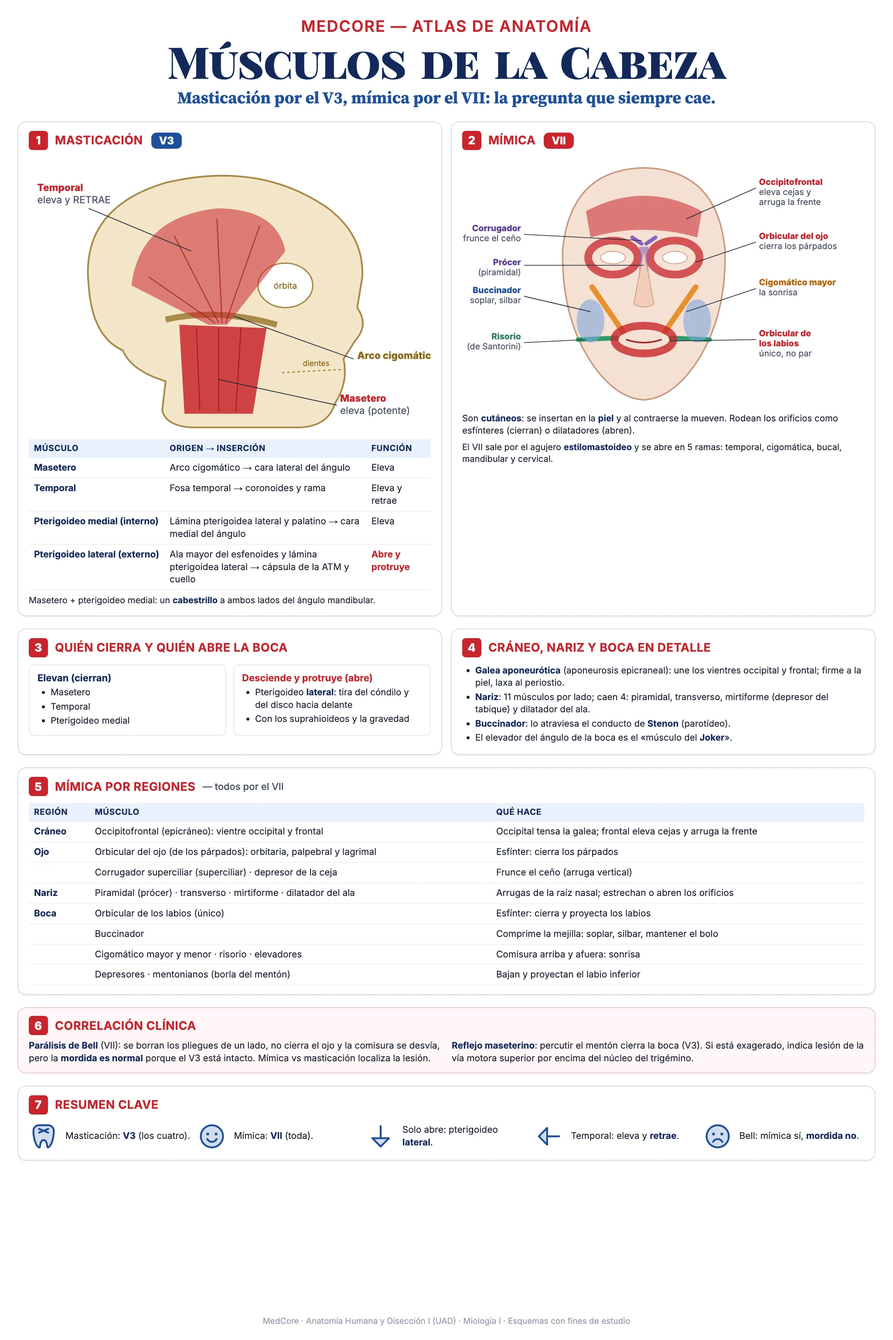
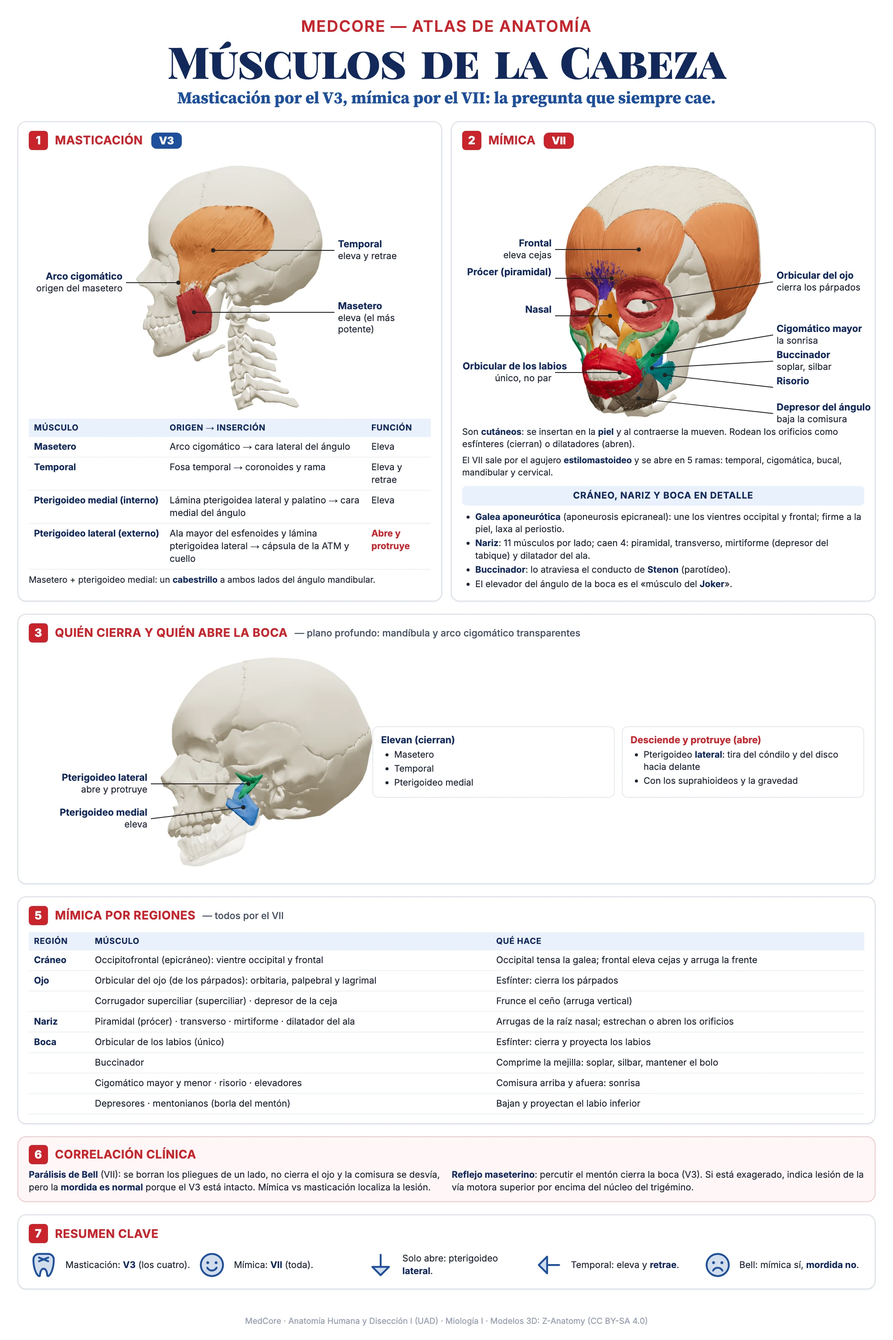
feat(atlas): músculos de cabeza y de cuello con renders de Z-Anatomy
Los esquemas dibujados se sustituyen por renders del modelo Z-Anatomy
(CC BY-SA 4.0) exportado con Blender: masticación (temporal y masetero),
plano profundo de los pterigoideos, mímica, supra e infrahioideos,
triángulo suboccipital y escalenos, con rótulos por proyección.
render-atlas.html: los músculos con nombre de hueso ya no se pintan como
hueso, dientes en color hueso, y opciones dbl/poff para mallas con caras
invertidas o que se cruzan con el hueso.

diff --git a/docs/atlas-posters/membrana/src/anat-musculos-cuello.html b/docs/atlas-posters/membrana/src/anat-musculos-cuello.html
@@ -16,46 +16,8 @@ td.v { font-weight: 800; white-space: nowrap; }
 
 <div class="row">
   <section class="panel" style="flex:1.05">
-    <div class="ph"><span class="n">1</span>Supra e infrahioideos <small>— vista anterior · esquema</small></div>
-    <svg viewBox="0 0 480 400" style="width:100%;display:block">
-      <!-- mandíbula -->
-      <path d="M90 30 Q240 150 390 30 L376 22 Q240 128 104 22 Z" fill="#f3e6c8" stroke="#a88a4a" stroke-width="2"/>
-      <!-- hioides -->
-      <path d="M170 168 Q240 186 310 168 L314 180 Q240 198 166 180 Z" fill="#f3e6c8" stroke="#a88a4a" stroke-width="2"/>
-      <!-- tiroides -->
-      <path d="M200 226 L280 226 L272 270 Q240 290 208 270 Z" fill="#cfe0f6" stroke="#3e7fbd" stroke-width="2"/>
-      <!-- esternón y clavículas -->
-      <path d="M210 360 L270 360 L276 396 L204 396 Z" fill="#f3e6c8" stroke="#a88a4a" stroke-width="2"/>
-      <path d="M210 364 Q150 350 80 362 M270 364 Q330 350 400 362" fill="none" stroke="#a88a4a" stroke-width="9" stroke-linecap="round"/>
-      <!-- suprahioideos -->
-      <path d="M232 92 L236 170" stroke="#e8912e" stroke-width="10" stroke-linecap="round"/>
-      <path d="M150 110 Q200 140 236 172" fill="none" stroke="#8a63c0" stroke-width="8" stroke-linecap="round"/>
-      <path d="M182 74 Q206 120 220 170 L260 170 Q276 120 298 74 Q240 110 182 74 Z" fill="#2e9d6b" opacity=".45"/>
-      <path d="M244 92 L240 170" stroke="#e8912e" stroke-width="10" stroke-linecap="round" opacity=".0"/>
-      <path d="M200 70 Q206 120 228 168" fill="none" stroke="#c8242c" stroke-width="7" stroke-linecap="round"/>
-      <path d="M118 56 Q160 150 226 172" fill="none" stroke="#c8242c" stroke-width="7" stroke-linecap="round" stroke-dasharray="1 0"/>
-      <!-- infrahioideos -->
-      <g stroke-linecap="round">
-        <line x1="226" y1="184" x2="226" y2="360" stroke="#1f4f9c" stroke-width="9"/>
-        <line x1="254" y1="184" x2="254" y2="360" stroke="#1f4f9c" stroke-width="9"/>
-        <line x1="212" y1="270" x2="214" y2="360" stroke="#5b8fd6" stroke-width="8"/>
-        <line x1="268" y1="270" x2="266" y2="360" stroke="#5b8fd6" stroke-width="8"/>
-        <line x1="206" y1="184" x2="206" y2="228" stroke="#7fb3e0" stroke-width="7"/>
-        <line x1="274" y1="184" x2="274" y2="228" stroke="#7fb3e0" stroke-width="7"/>
-        <path d="M290 182 Q320 250 400 290" fill="none" stroke="#3e7fbd" stroke-width="7"/>
-      </g>
-      <g font-size="10.5">
-        <text x="240" y="16" font-weight="800" fill="#8a6a1a" text-anchor="middle">Mandíbula</text>
-        <text x="40" y="186" font-weight="800" fill="#8a6a1a">HIOIDES</text><line x1="92" y1="182" x2="164" y2="176" stroke="#8a6a1a"/>
-        <text x="300" y="250" font-weight="800" fill="#1f4f9c">Cartílago tiroides</text>
-        <text x="240" y="392" font-weight="800" fill="#8a6a1a" text-anchor="middle" font-size="9.5">esternón</text>
-        <text x="12" y="80" font-weight="800" fill="#2e7d5b">SUPRAHIOIDEOS</text><text x="12" y="94" fill="#4b5567">suben el hioides</text>
-        <text x="12" y="112" fill="#c8242c" font-weight="700">digástrico</text><text x="12" y="126" fill="#8a63c0" font-weight="700">estilohioideo</text><text x="12" y="140" fill="#2e7d5b" font-weight="700">milohioideo</text><text x="12" y="154" fill="#b8650f" font-weight="700">geniohioideo</text>
-        <text x="12" y="290" font-weight="800" fill="#1f4f9c">INFRAHIOIDEOS</text><text x="12" y="304" fill="#4b5567">bajan hioides y laringe</text>
-        <text x="12" y="322" fill="#1f4f9c" font-weight="700">esternohioideo</text><text x="12" y="336" fill="#5b8fd6" font-weight="700">esternotiroideo</text><text x="12" y="350" fill="#3e7fbd" font-weight="700">tirohioideo</text>
-        <text x="340" y="312" fill="#3e7fbd" font-weight="700">omohioideo</text><text x="340" y="325" fill="#4b5567">hacia la escápula</text>
-      </g>
-    </svg>
+    <div class="ph"><span class="n">1</span>Supra e infrahioideos <small>— vista anterolateral · modelo 3D</small></div>
+    <script type="auto3d">{"img": "ana3d/cue-hioides.png", "height": 350, "cw": 500, "gap": 42, "labels": {"dig": ["Digástrico", "vientre anterior"], "myl": ["Milohioideo", "piso de la boca"], "hy": ["Hioides", ""], "sh": ["Esternohioideo", ""], "st": ["Esternotiroideo", ""], "dgp": ["Digástrico", "vientre post."], "sty": ["Estilohioideo", ""], "tc": ["Cartílago tiroides", ""], "th": ["Tirohioideo", ""], "om": ["Omohioideo", "a la escápula"]}, "side": {"dig": "left", "myl": "left", "hy": "left", "sh": "left", "st": "left", "dgp": "right", "sty": "right", "tc": "right", "th": "right", "om": "right"}, "L": 128}</script>
   </section>
   <section class="panel" style="flex:.95">
     <div class="ph"><span class="n">2</span>Suprahioideos: inervación mixta ★</div>
@@ -80,35 +42,8 @@ td.v { font-weight: 800; white-space: nowrap; }
 
 <div class="row">
   <section class="panel" style="flex:1">
-    <div class="ph"><span class="n">3</span>Triángulo suboccipital <small>— vista posterior · esquema</small></div>
-    <svg viewBox="0 0 470 250" style="width:100%;display:block">
-      <!-- occipital -->
-      <path d="M40 20 Q235 -10 430 20 L420 60 Q235 40 50 60 Z" fill="#f3e6c8" stroke="#a88a4a" stroke-width="2"/>
-      <!-- atlas C1 -->
-      <path d="M70 120 Q235 100 400 120 L396 140 Q235 122 74 140 Z" fill="#f3e6c8" stroke="#a88a4a" stroke-width="2"/>
-      <circle cx="96" cy="128" r="16" fill="#f3e6c8" stroke="#a88a4a" stroke-width="2"/>
-      <!-- axis C2 espinoso -->
-      <path d="M200 190 L270 190 L260 236 L210 236 Z" fill="#f3e6c8" stroke="#a88a4a" stroke-width="2"/>
-      <!-- membrana / arteria -->
-      <path d="M100 124 Q170 104 236 112" fill="none" stroke="#c8242c" stroke-width="6"/>
-      <!-- músculos -->
-      <path d="M226 192 L190 62 L160 60 L212 194 Z" fill="#c8242c" opacity=".75"/>
-      <path d="M232 112 L240 60 L222 60 L222 112 Z" fill="#e8912e" opacity=".75"/>
-      <path d="M96 116 L120 58 L140 58 L108 130 Z" fill="#2e9d6b" opacity=".75"/>
-      <path d="M100 140 L212 206 L218 194 L106 126 Z" fill="#1f4f9c" opacity=".75"/>
-      <!-- triángulo resaltado -->
-      <path d="M118 110 L176 92 L202 176 Z" fill="none" stroke="#13295b" stroke-width="2" stroke-dasharray="5 4"/>
-      <g font-size="10.5">
-        <text x="235" y="16" font-weight="800" fill="#8a6a1a" text-anchor="middle">Occipital (línea nucal inferior)</text>
-        <text x="420" y="134" font-weight="800" fill="#8a6a1a" text-anchor="end">Atlas C1</text>
-        <text x="282" y="222" font-weight="800" fill="#8a6a1a">Axis C2</text>
-        <line x1="196" y1="140" x2="300" y2="150" stroke="#1d2433" stroke-width=".8"/><text x="304" y="150" font-weight="800" fill="#c8242c">Recto post. MAYOR</text><text x="304" y="163" fill="#4b5567">límite medial</text>
-        <line x1="232" y1="80" x2="300" y2="84" stroke="#1d2433" stroke-width=".8"/><text x="304" y="82" font-weight="800" fill="#b8650f">Recto post. menor</text>
-        <line x1="116" y1="80" x2="20" y2="80" stroke="#1d2433" stroke-width=".8"/><text x="4" y="74" font-weight="800" fill="#2e7d5b">Oblicuo superior</text><text x="4" y="94" fill="#4b5567">límite lateral</text>
-        <line x1="150" y1="170" x2="20" y2="190" stroke="#1d2433" stroke-width=".8"/><text x="4" y="200" font-weight="800" fill="#1f4f9c">Oblicuo inferior</text><text x="4" y="213" fill="#4b5567">límite inferior</text>
-        <text x="160" y="124" font-size="9.5" font-weight="800" fill="#c8242c">a. vertebral</text>
-      </g>
-    </svg>
+    <div class="ph"><span class="n">3</span>Triángulo suboccipital <small>— vista posterior · modelo 3D</small></div>
+    <script type="auto3d">{"img": "ana3d/cue-subocc.png", "height": 300, "cw": 470, "gap": 40, "labels": {"rmi": ["Recto post. menor", ""], "rma": ["Recto post. mayor", "límite medial"], "os": ["Oblicuo superior", "límite lateral"], "oi": ["Oblicuo inferior", "límite inferior"], "oc": ["Occipital", ""], "c1": ["Atlas (C1)", ""], "c2": ["Axis (C2)", ""]}, "side": {"rmi": "left", "rma": "left", "os": "left", "oi": "left", "oc": "right", "c1": "right", "c2": "right"}}</script>
     <table>
       <tr><td class="k">Piso</td><td>Membrana atlantooccipital posterior + arco posterior del atlas</td></tr>
       <tr><td class="k">Techo</td><td>Complejo mayor (semiespinoso de la cabeza)</td></tr>
@@ -117,27 +52,8 @@ td.v { font-weight: 800; white-space: nowrap; }
     <p style="font-size:10px;margin:4px 0 0">El <b>nervio suboccipital</b> (rama posterior de C1) inerva los cuatro suboccipitales.</p>
   </section>
   <section class="panel" style="flex:1">
-    <div class="ph"><span class="n">4</span>Escalenos <small>— vista lateral · esquema</small></div>
-    <svg viewBox="0 0 470 250" style="width:100%;display:block">
-      <g fill="#f3e6c8" stroke="#a88a4a" stroke-width="1.6">
-        <rect x="60" y="14" width="44" height="22" rx="5"/><rect x="60" y="40" width="44" height="22" rx="5"/><rect x="60" y="66" width="44" height="22" rx="5"/><rect x="60" y="92" width="44" height="22" rx="5"/><rect x="60" y="118" width="44" height="22" rx="5"/><rect x="60" y="144" width="44" height="22" rx="5"/><rect x="60" y="170" width="44" height="22" rx="5"/>
-      </g>
-      <g font-size="9" fill="#8a6a1a" font-weight="700" text-anchor="middle"><text x="82" y="29">C1</text><text x="82" y="133">C5</text><text x="82" y="185">C7</text></g>
-      <path d="M100 206 Q240 190 420 230" fill="none" stroke="#a88a4a" stroke-width="12" stroke-linecap="round"/>
-      <path d="M100 236 Q240 222 430 250" fill="none" stroke="#a88a4a" stroke-width="10" stroke-linecap="round" opacity=".7"/>
-      <path d="M104 60 L300 200 L270 204 L104 112 Z" fill="#c8242c" opacity=".8"/>
-      <path d="M104 26 L230 200 L196 200 L104 76 Z" fill="#e8912e" opacity=".75"/>
-      <path d="M104 116 L184 230 L162 232 L104 150 Z" fill="#8a63c0" opacity=".75"/>
-      <path d="M110 160 Q190 176 248 198 L340 206" fill="none" stroke="#e8c43c" stroke-width="7" stroke-linecap="round"/>
-      <path d="M246 190 Q300 196 360 180" fill="none" stroke="#c8242c" stroke-width="6" stroke-dasharray="1 0" opacity=".0"/>
-      <g font-size="10.5">
-        <text x="310" y="80" font-weight="800" fill="#c8242c">Escaleno anterior</text><text x="310" y="93" fill="#4b5567">C3–C6 → 1.ª costilla</text>
-        <text x="310" y="114" font-weight="800" fill="#b8650f">Escaleno medio</text><text x="310" y="127" fill="#4b5567">C1–C7 → 1.ª costilla</text>
-        <text x="310" y="148" font-weight="800" fill="#5b3b99">Escaleno posterior</text><text x="310" y="161" fill="#4b5567">C4–C6 → 2.ª costilla</text>
-        <text x="344" y="186" font-size="9.5" font-weight="800" fill="#a0821c">plexo braquial</text><text x="344" y="198" font-size="9.5" font-weight="800" fill="#a0821c">+ a. subclavia</text>
-        <text x="120" y="200" font-size="9.5" font-weight="700" fill="#8a6a1a">1.ª costilla</text><text x="120" y="248" font-size="9.5" font-weight="700" fill="#8a6a1a">2.ª costilla</text>
-      </g>
-    </svg>
+    <div class="ph"><span class="n">4</span>Escalenos <small>— vista anterolateral · modelo 3D</small></div>
+    <script type="auto3d">{"img": "ana3d/cue-escalenos.png", "height": 300, "cw": 460, "gap": 36, "labels": {"sa": ["Escaleno anterior", "C3–C6 → 1.ª costilla"], "r1": ["1.ª costilla", ""], "r2": ["2.ª costilla", ""], "sm": ["Escaleno medio", "C1–C7 → 1.ª costilla"], "sp": ["Escaleno posterior", "C4–C6 → 2.ª costilla"], "c1": ["Atlas (C1)", ""]}, "side": {"sa": "left", "r1": "left", "r2": "left", "sm": "right", "sp": "right", "c1": "right"}}</script>
     <p style="font-size:10.2px;margin:0 0 4px"><b>Función</b>: flexión lateral del cuello e inspiradores accesorios (elevan las dos primeras costillas). Inervación: ramas anteriores cervicales (≈ C3–C4).</p>
     <p style="font-size:10.2px;margin:0">Entre el <b>anterior</b> y el <b>medio</b> pasan el plexo braquial y la arteria subclavia.</p>
   </section>
@@ -181,5 +97,5 @@ td.v { font-weight: 800; white-space: nowrap; }
   </div>
 </section>
 
-<p class="foot">MedCore · Anatomía Humana y Disección I (UAD) · Miología I · Esquemas con fines de estudio</p>
+<p class="foot">MedCore · Anatomía Humana y Disección I (UAD) · Miología I · Modelos 3D: Z-Anatomy (CC BY-SA 4.0)</p>
 </div></body></html>

diff --git a/docs/atlas-posters/membrana/src/anat-musculos-cabeza.html b/docs/atlas-posters/membrana/src/anat-musculos-cabeza.html
@@ -3,7 +3,7 @@
 svg text { font-family: 'Inter'; }
 .page { gap: 14px; }
 .two { display: grid; grid-template-columns: 1fr 1fr; gap: 8px; }
-.two .mini { text-align: left; padding: 7px 9px; }
+.two .mini, .mini { text-align: left; padding: 7px 9px; }
 .lst { margin: 0; padding-left: 15px; font-size: 10.3px; }
 .lst li { margin: 0 0 2px; }
 .badge { display: inline-block; font-weight: 800; font-size: 12px; color: #fff; border-radius: 6px; padding: 1px 9px; margin-left: 6px; letter-spacing: 0; }
@@ -19,25 +19,7 @@ svg text { font-family: 'Inter'; }
 <div class="row">
   <section class="panel" style="flex:1">
     <div class="ph"><span class="n">1</span><span>Masticación <span class="badge" style="background:#1f4f9c">V3</span></span></div>
-    <svg viewBox="0 0 470 330" style="width:100%;display:block">
-      <!-- cráneo lateral esquemático -->
-      <path d="M70 150 Q60 60 160 30 Q270 4 350 60 Q392 92 390 140 L384 176 Q398 196 382 214 L368 236 Q374 262 358 288 Q350 314 318 316 L190 316 Q160 314 156 296 L160 262 Q120 250 110 226 Q74 210 70 150 Z" fill="#f3e6c8" stroke="#a88a4a" stroke-width="2"/>
-      <path d="M296 252 L370 248" stroke="#a88a4a" stroke-width="1.4" stroke-dasharray="3 3"/><text x="336" y="244" font-size="9" fill="#8a6a1a" text-anchor="middle">dientes</text>
-      <ellipse cx="300" cy="150" rx="32" ry="26" fill="#fff" stroke="#a88a4a" stroke-width="1.6"/>
-      <path d="M160 190 Q220 176 290 196" fill="none" stroke="#a88a4a" stroke-width="7"/>
-      <!-- temporal -->
-      <path d="M120 150 Q130 70 220 60 Q290 60 300 110 L232 196 L210 196 Z" fill="#c8242c" opacity=".55"/>
-      <g stroke="#a51d24" stroke-width="1.2" fill="none" opacity=".8"><path d="M140 140 L218 194"/><path d="M170 92 L222 194"/><path d="M220 72 L226 194"/><path d="M270 80 L230 194"/></g>
-      <!-- masetero -->
-      <path d="M176 196 L278 200 L262 300 L182 300 Z" fill="#c8242c" opacity=".85"/>
-      <g stroke="#a51d24" stroke-width="1.2"><line x1="196" y1="200" x2="200" y2="296"/><line x1="222" y1="200" x2="222" y2="298"/><line x1="248" y1="200" x2="242" y2="298"/></g>
-      <g font-size="11.5">
-        <line x1="190" y1="110" x2="70" y2="60" stroke="#1d2433" stroke-width=".9"/><text x="10" y="40" font-weight="800" fill="#c8242c">Temporal</text><text x="10" y="54" fill="#4b5567">eleva y RETRAE</text>
-        <line x1="222" y1="260" x2="360" y2="290" stroke="#1d2433" stroke-width=".9"/><text x="364" y="286" font-weight="800" fill="#c8242c">Masetero</text><text x="364" y="300" fill="#4b5567">eleva (potente)</text>
-        <line x1="240" y1="186" x2="380" y2="236" stroke="#1d2433" stroke-width=".9"/><text x="384" y="236" font-weight="800" fill="#8a6a1a">Arco cigomático</text>
-        <text x="300" y="154" font-size="10" fill="#8a6a1a" text-anchor="middle">órbita</text>
-      </g>
-    </svg>
+    <script type="auto3d">{"img": "ana3d/cab-mast.png", "height": 292, "cw": 460, "gap": 40, "labels": {"tem": ["Temporal", "eleva y retrae"], "arc": ["Arco cigomático", "origen del masetero"], "mas": ["Masetero", "eleva (el más potente)"]}, "side": {"tem": "right", "arc": "left", "mas": "right"}}</script>
     <table>
       <tr><th>Músculo</th><th>Origen → inserción</th><th>Función</th></tr>
       <tr><td class="k">Masetero</td><td>Arco cigomático → cara lateral del ángulo</td><td>Eleva</td></tr>
@@ -50,54 +32,10 @@ svg text { font-family: 'Inter'; }
 
   <section class="panel" style="flex:1">
     <div class="ph"><span class="n">2</span><span>Mímica <span class="badge" style="background:#c8242c">VII</span></span></div>
-    <svg viewBox="0 0 520 330" style="width:100%;display:block">
-      <!-- cara frontal -->
-      <path d="M235 14 Q330 16 340 120 Q342 210 300 270 Q270 312 235 314 Q200 312 170 270 Q128 210 130 120 Q140 16 235 14 Z" fill="#f6e1d3" stroke="#c99a84" stroke-width="2"/>
-      <!-- frontal -->
-      <path d="M160 70 Q235 30 310 70 L304 104 Q235 84 166 104 Z" fill="#c8242c" opacity=".55"/>
-      <!-- orbiculares del ojo -->
-      <g fill="none" stroke="#c8242c" stroke-width="10" opacity=".75"><ellipse cx="195" cy="130" rx="32" ry="22"/><ellipse cx="275" cy="130" rx="32" ry="22"/></g>
-      <g fill="#fff" stroke="#c99a84"><ellipse cx="195" cy="130" rx="16" ry="8"/><ellipse cx="275" cy="130" rx="16" ry="8"/></g>
-      <!-- corrugador y prócer -->
-      <path d="M220 104 L232 112 M250 104 L238 112" stroke="#8a63c0" stroke-width="5" stroke-linecap="round"/>
-      <path d="M229 116 L229 150 L241 150 L241 116 Z" fill="#8a63c0" opacity=".6"/>
-      <!-- nariz -->
-      <path d="M235 120 L222 190 Q235 198 248 190 Z" fill="#f2cdb9" stroke="#c99a84"/>
-      <!-- cigomáticos -->
-      <g stroke="#e8912e" stroke-width="7" stroke-linecap="round"><line x1="168" y1="168" x2="208" y2="226"/><line x1="302" y1="168" x2="262" y2="226"/></g>
-      <!-- risorio -->
-      <g stroke="#2e9d6b" stroke-width="6" stroke-linecap="round"><line x1="150" y1="236" x2="200" y2="234"/><line x1="320" y1="236" x2="270" y2="234"/></g>
-      <!-- buccinador -->
-      <g fill="#7fa9e0" opacity=".6"><ellipse cx="166" cy="212" rx="18" ry="28"/><ellipse cx="304" cy="212" rx="18" ry="28"/></g>
-      <!-- orbicular de los labios -->
-      <ellipse cx="235" cy="236" rx="38" ry="18" fill="none" stroke="#c8242c" stroke-width="10" opacity=".8"/>
-      <path d="M212 236 Q235 244 258 236" stroke="#a51d24" stroke-width="2" fill="none"/>
-      <g font-size="11">
-        <line x1="290" y1="80" x2="380" y2="40" stroke="#1d2433" stroke-width=".9"/><text x="384" y="36" font-weight="800" fill="#c8242c">Occipitofrontal</text><text x="384" y="49" fill="#4b5567">eleva cejas y</text><text x="384" y="62" fill="#4b5567">arruga la frente</text>
-        <line x1="302" y1="136" x2="380" y2="110" stroke="#1d2433" stroke-width=".9"/><text x="384" y="106" font-weight="800" fill="#c8242c">Orbicular del ojo</text><text x="384" y="119" fill="#4b5567">cierra los párpados</text>
-        <line x1="290" y1="200" x2="380" y2="170" stroke="#1d2433" stroke-width=".9"/><text x="384" y="166" font-weight="800" fill="#b8650f">Cigomático mayor</text><text x="384" y="179" fill="#4b5567">la sonrisa</text>
-        <line x1="268" y1="238" x2="380" y2="236" stroke="#1d2433" stroke-width=".9"/><text x="384" y="232" font-weight="800" fill="#c8242c">Orbicular de</text><text x="384" y="245" font-weight="800" fill="#c8242c">los labios</text><text x="384" y="258" fill="#4b5567">único, no par</text>
-        <line x1="166" y1="200" x2="80" y2="180" stroke="#1d2433" stroke-width=".9"/><text x="76" y="176" font-weight="800" fill="#1f4f9c" text-anchor="end">Buccinador</text><text x="76" y="189" fill="#4b5567" text-anchor="end">soplar, silbar</text>
-        <line x1="160" y1="236" x2="80" y2="240" stroke="#1d2433" stroke-width=".9"/><text x="76" y="236" font-weight="800" fill="#2e7d5b" text-anchor="end">Risorio</text><text x="76" y="249" fill="#4b5567" text-anchor="end">(de Santorini)</text>
-        <line x1="232" y1="108" x2="80" y2="100" stroke="#1d2433" stroke-width=".9"/><text x="76" y="96" font-weight="800" fill="#5b3b99" text-anchor="end">Corrugador</text><text x="76" y="109" fill="#4b5567" text-anchor="end">frunce el ceño</text>
-        <line x1="235" y1="140" x2="80" y2="140" stroke="#1d2433" stroke-width=".9"/><text x="76" y="140" font-weight="800" fill="#5b3b99" text-anchor="end">Prócer</text><text x="76" y="153" fill="#4b5567" text-anchor="end">(piramidal)</text>
-      </g>
-    </svg>
+    <script type="auto3d">{"img": "ana3d/cab-mimica.png", "height": 300, "cw": 460, "gap": 30, "labels": {"fro": ["Frontal", "eleva cejas"], "cor": ["Corrugador", "frunce el ceño"], "pro": ["Prócer (piramidal)", ""], "nas": ["Nasal", ""], "ooc": ["Orbicular del ojo", "cierra los párpados"], "zym": ["Cigomático mayor", "la sonrisa"], "ris": ["Risorio", ""], "buc": ["Buccinador", "soplar, silbar"], "oor": ["Orbicular de los labios", "único, no par"], "dao": ["Depresor del ángulo", "baja la comisura"]}, "side": {"fro": "left", "cor": "left", "pro": "left", "nas": "left", "oor": "left", "ooc": "right", "zym": "right", "ris": "right", "buc": "right", "dao": "right"}}</script>
     <p style="font-size:10.2px;margin:0 0 5px">Son <b>cutáneos</b>: se insertan en la <b>piel</b> y al contraerse la mueven. Rodean los orificios como esfínteres (cierran) o dilatadores (abren).</p>
     <p style="font-size:10px;margin:0">El VII sale por el agujero <b>estilomastoideo</b> y se abre en 5 ramas: temporal, cigomática, bucal, mandibular y cervical.</p>
-  </section>
-</div>
-
-<div class="row">
-  <section class="panel" style="flex:1">
-    <div class="ph"><span class="n">3</span>Quién cierra y quién abre la boca</div>
-    <div class="two">
-      <div class="mini"><p class="t">Elevan (cierran)</p><ul class="lst"><li>Masetero</li><li>Temporal</li><li>Pterigoideo medial</li></ul></div>
-      <div class="mini"><p class="t" style="color:var(--red)">Desciende y protruye (abre)</p><ul class="lst"><li>Pterigoideo <b>lateral</b>: tira del cóndilo y del disco hacia delante</li><li>Con los suprahioideos y la gravedad</li></ul></div>
-    </div>
-  </section>
-  <section class="panel" style="flex:1">
-    <div class="ph"><span class="n">4</span>Cráneo, nariz y boca en detalle</div>
+    <div class="sh" style="margin-top:8px">Cráneo, nariz y boca en detalle</div>
     <ul class="lst">
       <li><b>Galea aponeurótica</b> (aponeurosis epicraneal): une los vientres occipital y frontal; firme a la piel, laxa al periostio.</li>
       <li><b>Nariz</b>: 11 músculos por lado; caen 4: piramidal, transverso, mirtiforme (depresor del tabique) y dilatador del ala.</li>
@@ -105,6 +43,20 @@ svg text { font-family: 'Inter'; }
       <li>El elevador del ángulo de la boca es el «músculo del <b>Joker</b>».</li>
     </ul>
   </section>
+</div>
+
+<div class="row">
+  <section class="panel" style="flex:1">
+    <div class="ph"><span class="n">3</span>Quién cierra y quién abre la boca <small>— plano profundo: mandíbula y arco cigomático transparentes</small></div>
+    <div style="display:flex;gap:14px;align-items:center">
+      <div style="flex:0 0 380px"><script type="auto3d">{"img": "ana3d/cab-pter.png", "height": 250, "cw": 380, "L": 146, "gap": 40, "labels": {"pl": ["Pterigoideo lateral", "abre y protruye"], "pm": ["Pterigoideo medial", "eleva"]}, "side": {"pl": "left", "pm": "left"}}</script></div>
+      <div style="flex:1;display:grid;grid-template-columns:1fr 1fr;gap:8px;text-align:left">
+        <div class="mini"><p class="t">Elevan (cierran)</p><ul class="lst"><li>Masetero</li><li>Temporal</li><li>Pterigoideo medial</li></ul></div>
+        <div class="mini"><p class="t" style="color:var(--red)">Desciende y protruye (abre)</p><ul class="lst"><li>Pterigoideo <b>lateral</b>: tira del cóndilo y del disco hacia delante</li><li>Con los suprahioideos y la gravedad</li></ul></div>
+      </div>
+    </div>
+  </section>
+
 </div>
 
 <section class="panel">
@@ -141,5 +93,5 @@ svg text { font-family: 'Inter'; }
   </div>
 </section>
 
-<p class="foot">MedCore · Anatomía Humana y Disección I (UAD) · Miología I · Esquemas con fines de estudio</p>
+<p class="foot">MedCore · Anatomía Humana y Disección I (UAD) · Miología I · Modelos 3D: Z-Anatomy (CC BY-SA 4.0)</p>
 </div></body></html>

diff --git a/render-atlas.html b/render-atlas.html
@@ -33,7 +33,7 @@ loader.load('/models/' + q.get('model'), (g) => {
     const n = nameOf(o)
     if ((show && !show.test(n)) || (hide && hide.test(n))) { o.visible = false; return }
     const hit = hl.find(([r]) => r.test(n))
-    const bone = /bone|vertebra|sacrum|coccyx|scapula|clavicle|humerus|radius|ulna|femur|tibia|fibula|patella|carpal|metacarp|phalan|hip|rib|sternum|skull|mandible|maxill|frontal|parietal|occipital|temporal|sphenoid|ethmoid|zygomatic|nasal|lacrimal|palatine|vomer|concha|calcan|talus|navicular|cuboid|cuneiform|metatars|capitate|hamate|lunate|scaphoid|pisiform|triquetr|trapez(ium|oid)\.|atlas|axis/i.test(n)
+    const bone = !/muscle|masseter|platysma|bucinator|aponeurosis|levator|depressor|orbicularis/i.test(n) && /incisor|canine|premolar|molar|tooth|bone|vertebra|sacrum|coccyx|scapula|clavicle|humerus|radius|ulna|femur|tibia|fibula|patella|carpal|metacarp|phalan|hip|rib|sternum|skull|mandible|maxill|frontal|parietal|occipital|temporal|sphenoid|ethmoid|zygomatic|nasal|lacrimal|palatine|vomer|concha|calcan|talus|navicular|cuboid|cuneiform|metatars|capitate|hamate|lunate|scaphoid|pisiform|triquetr|trapez(ium|oid)\.|atlas|axis/i.test(n)
     let mat
     if (hit) mat = new THREE.MeshStandardMaterial({ color: hit[1], roughness: 0.55, metalness: 0 })
     else if (bone) mat = new THREE.MeshStandardMaterial({ color: 0xeee3cc, roughness: 0.7 })
@@ -41,6 +41,8 @@ loader.load('/models/' + q.get('model'), (g) => {
     else mat = new THREE.MeshStandardMaterial({ color: /ligament|capsule|tendon|cartil|disc|bursa|sheath|aponeur|retinac/i.test(n) ? 0xd8d4c8 : /arter|vein|nerve/i.test(n) ? 0xffffff : 0xc98a7c, roughness: 0.65, transparent: /arter|vein|nerve/i.test(n), opacity: /arter|vein|nerve/i.test(n) ? 0 : 1 })
     if (/arter|vein|nerve|bursa|fascia|plexus|cord of|trunk of|divisions of|sheath|septum|canal|triangle|ring|hiatus|opening|recess|overlay|fat pad|arch|network|tract|annulus|vessels|zona orbicularis|labrum/i.test(n)) { o.visible = false; return }
     if (ghost && ghost.test(n)) { mat.transparent = true; mat.opacity = 0.28; mat.depthWrite = false }
+    if (q.get('dbl') === '1' && !bone) mat.side = THREE.DoubleSide
+    if (q.get('poff') && !bone) { mat.polygonOffset = true; mat.polygonOffsetFactor = -q.get('poff'); mat.polygonOffsetUnits = -q.get('poff') }
     o.material = mat
     o.updateWorldMatrix(true, false)
     box.expandByObject(o)

diff --git a/docs/atlas-posters/membrana/za_render.py b/docs/atlas-posters/membrana/za_render.py
@@ -1,0 +1,11 @@
+# Renderiza vistas del modelo de cabeza y cuello exportado de Z-Anatomy (za/head-neck.glb, CC BY-SA 4.0).
+# Uso: python3 za_render.py <nombre> '<json con show/hide/hl/view/pts/pad/...>'
+import sys, json, urllib.parse
+from render3d import render
+name, spec = sys.argv[1], json.loads(sys.argv[2])
+q = {'model': '../docs/atlas-posters/membrana/za/head-neck.glb', 'w': 1400, 'h': 1400}
+for k, v in spec.items():
+    if k == 'hl': v = ';'.join(f'{r}={c}' for r, c in v.items())
+    if k == 'pts': v = ';'.join(f'{k2}~{r}' for k2, r in v.items())
+    q[k] = v
+render(name, urllib.parse.urlencode(q, quote_via=urllib.parse.quote))

diff --git a/docs/atlas-posters/membrana/README.md b/docs/atlas-posters/membrana/README.md
@@ -10,3 +10,13 @@ Pósters de 1024×1536 (render 2×) con todo el texto real y verificado.
 
 Solo las láminas de Anatomía tienen fuente aquí; las de Histología, Genética y Bioquímica se
 publicaron directamente en `public/atlas/*.webp`.
+
+## Cabeza y cuello (Z-Anatomy)
+
+Los modelos de `public/models` no traen músculos de la cabeza ni del cuello. Para esas láminas se exporta
+`za/head-neck.glb` (no se versiona) desde el `Startup.blend` de Z-Anatomy
+(github.com/Z-Anatomy/Models-of-human-anatomy, CC BY-SA 4.0) con Blender en modo `-b`: huesos de cabeza,
+cuello y primeras costillas más los músculos de cabeza, cara, cuello y nuca, sin las mallas de inserción
+(`.o*`, `.e*`) ni las etiquetas (`.j`). Las vistas se renderizan con
+`python3 za_render.py <nombre> '<json>'` (claves: show, hide, ghost, hl, view, focus, pad, pts, dbl, poff).
+`dbl=1` dibuja los músculos por ambas caras y `poff` los adelanta para que el hueso no los atraviese.
